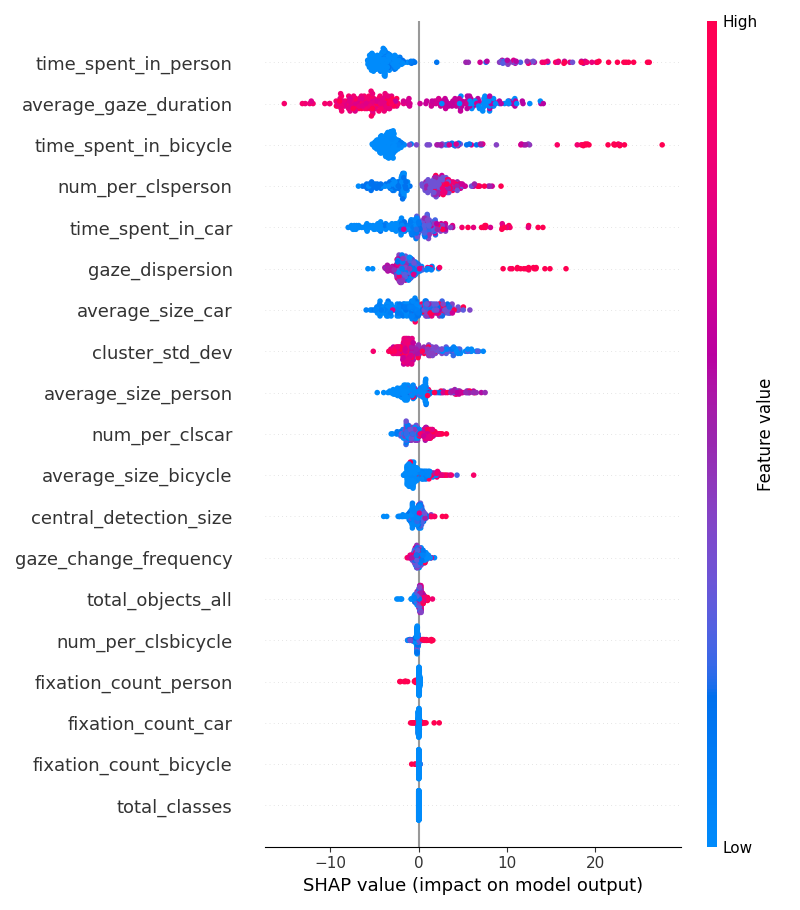
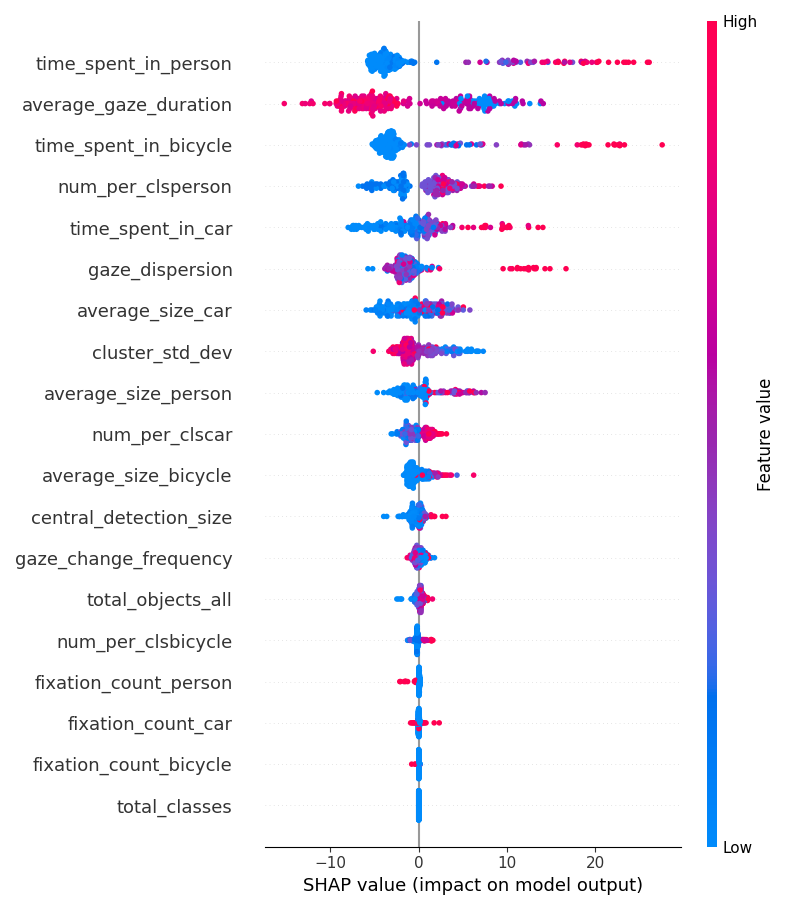
hyperparameter tuning

diff --git a/model/training_resampling.py b/model/training_resampling.py
@@ -7,6 +7,7 @@ from sklearn.ensemble import RandomForestRegressor
 from sklearn.metrics import mean_absolute_error, mean_squared_error, r2_score
 from sklearn.preprocessing import StandardScaler
 from sklearn.utils import resample
+from sklearn.model_selection import GridSearchCV
 
 # Create output directory
 output_dir = 'model/plots'
@@ -21,15 +22,27 @@ y = features_df['label']
 scaler = StandardScaler()
 X_scaled = scaler.fit_transform(X)
 
-# Initialize model
-rf_model = RandomForestRegressor(n_estimators=2000, random_state=42)
-
 # Balance the dataset using resampling
 balanced_X, balanced_y = resample(X_scaled, y, replace=True, random_state=42)
 
-# Train the model on the balanced dataset
-rf_model.fit(balanced_X, balanced_y)
-y_pred = rf_model.predict(X_scaled)
+# Define model and hyperparameter grid
+rf_model = RandomForestRegressor(random_state=42)
+param_grid = {
+    'n_estimators': [500, 1000, 2000],
+    'max_depth': [10, 20, None],
+    'min_samples_split': [2, 5, 10],
+    'min_samples_leaf': [1, 2, 4]
+}
+
+# Perform Grid Search
+grid_search = GridSearchCV(rf_model, param_grid, cv=5, scoring='neg_mean_squared_error', n_jobs=-1, verbose=2)
+grid_search.fit(balanced_X, balanced_y)
+
+# Best model after hyperparameter tuning
+best_rf_model = grid_search.best_estimator_
+
+# Train and evaluate the best model
+y_pred = best_rf_model.predict(X_scaled)
 residuals = y - y_pred
 
 # Calculate metrics
@@ -61,7 +74,7 @@ plt.savefig(os.path.join(output_dir, 'prediction_vs_actual.png'))
 plt.close()
 
 # Feature Importance
-importances = rf_model.feature_importances_
+importances = best_rf_model.feature_importances_
 sorted_idx = np.argsort(importances)[::-1]
 plt.figure(figsize=(10, 6))
 plt.bar(X.columns[sorted_idx], importances[sorted_idx])
@@ -73,14 +86,15 @@ plt.savefig(os.path.join(output_dir, 'feature_importance.png'))
 plt.close()
 
 # SHAP Analysis
-explainer = shap.TreeExplainer(rf_model)
+explainer = shap.TreeExplainer(best_rf_model)
 shap_values = explainer.shap_values(X_scaled)
 shap.summary_plot(shap_values, X, show=False)
 plt.savefig(os.path.join(output_dir, 'shap_summary.png'))
 plt.close()
 
 # Print Results
-print("Model Performance on Balanced Dataset:")
+print("Model Performance after Hyperparameter Tuning:")
+print(f"Best Parameters: {grid_search.best_params_}")
 print(f"MAE: {mae:.4f}")
 print(f"MSE: {mse:.4f}")
 print(f"RMSE: {rmse:.4f}")
